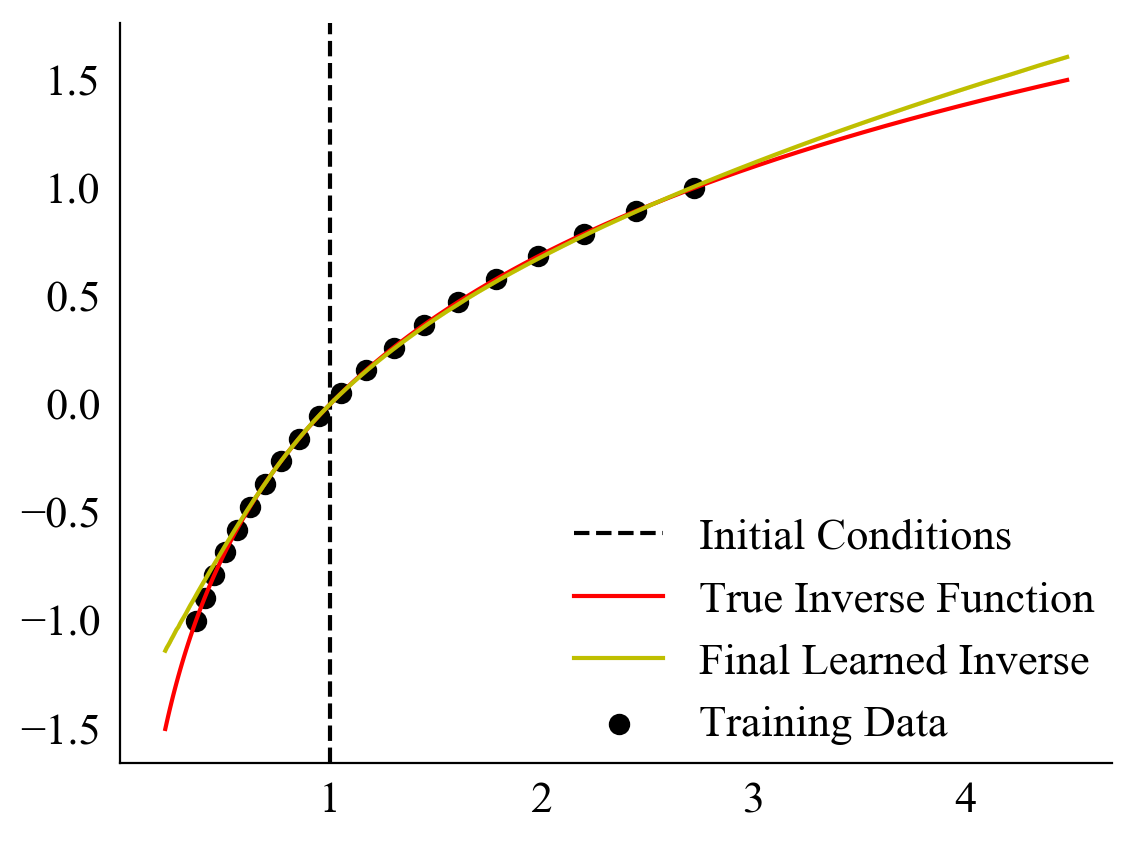
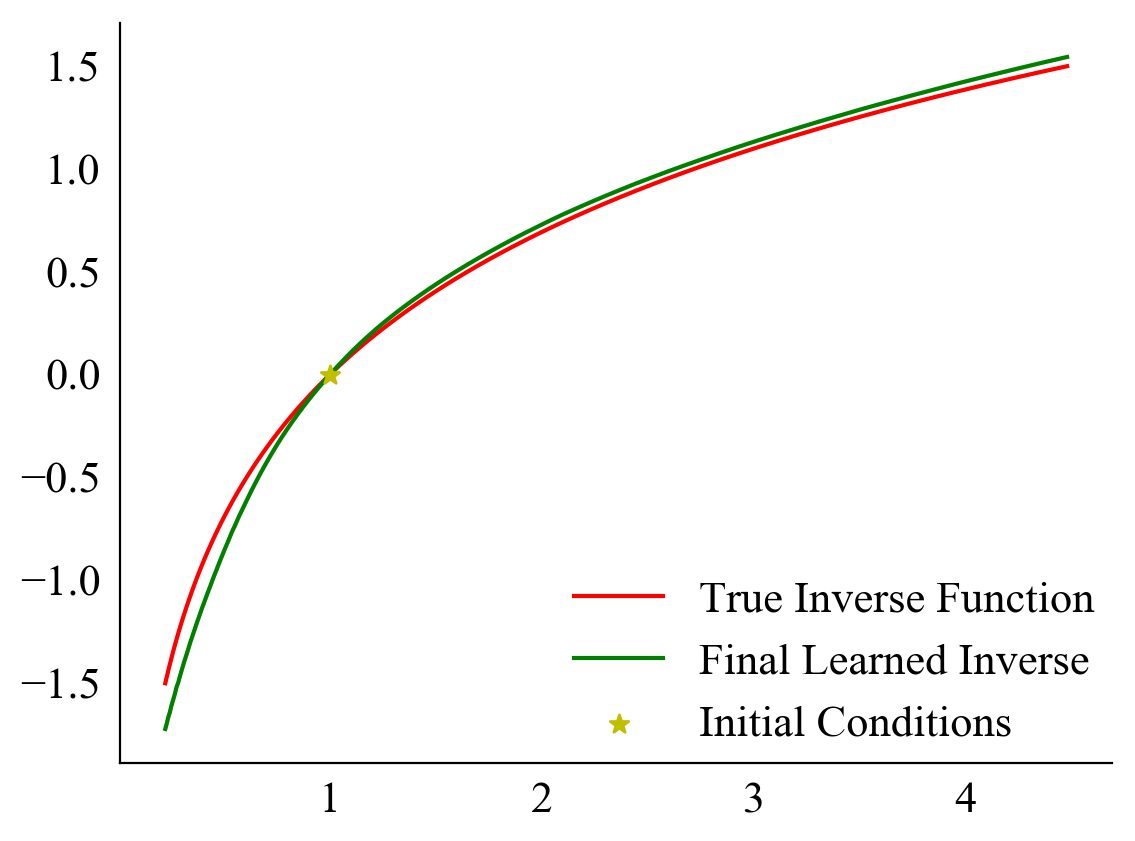
revised images from safwan comments

diff --git a/code/train.py b/code/train.py
@@ -222,7 +222,7 @@ def plot_loss(test_name):
     return rtols[-1], atols[-1]
 
 
-def plot_functions(test_name, num_epochs, rtol, atol, x_o):
+def plot_functions(test_name, num_epochs, rtol, atol, x_o, true_y):
     fig, ax = init_ax()
 
     initial_x, initial_y, initial_y_pred, initial_x_pred = load_log_plot('results/' + test_name + '_graph_-1.csv')
@@ -230,11 +230,6 @@ def plot_functions(test_name, num_epochs, rtol, atol, x_o):
         'results/' + test_name + '_graph_' + str(num_epochs) + '.csv')
 
     train_x, train_y, _, _ = load_log_plot('results/' + test_name + '_graph_0.csv')
-
-    ax.axvline(x_o, linestyle='--', color='k', label='Initial Conditions')
-
-    # Plot training data
-    ax.scatter(train_x, train_y, label='Training Data', c='k', s=mpl.rcParams['lines.markersize'] ** 2 * 1.25)
 
     # Plot the true function
     ax.plot(initial_x, initial_y, label='True Function', c='r')
@@ -251,6 +246,13 @@ def plot_functions(test_name, num_epochs, rtol, atol, x_o):
     ax.fill_between(final_x, final_y_pred + final_y_error, final_y_pred - final_y_error,
                     color='b', alpha=0.2)
 
+    ax.scatter(x_o, true_y(x_o), color='y', marker='*', label='Initial Conditions',
+               s=mpl.rcParams['lines.markersize']*8, zorder=10)
+
+    # Plot training data
+    ax.scatter(train_x, train_y, label='Training Data', c='k',
+               s=mpl.rcParams['lines.markersize']*2, zorder=10)
+
     ax = setup_ax(ax)
     fig.savefig('images/' + test_name + '_plot_functions.png', bbox_inches='tight', dpi=200)
     plt.close(fig)
@@ -265,11 +267,6 @@ def plot_inverse_functions(test_name, num_epochs, rtol, atol, x_o):
 
     train_x, train_y, _, _ = load_log_plot('results/' + test_name + '_graph_0.csv')
 
-    ax.axvline(true_y_exp(x_o), linestyle='--', color='k', label='Initial Conditions')
-
-    # Plot training data
-    ax.scatter(train_y, train_x, label='Training Data', c='k', s=mpl.rcParams['lines.markersize'] ** 2 * 1.25)
-
     # Plot the true function
     ax.plot(initial_y, initial_x, label='True Inverse Function', c='r')
 
@@ -279,10 +276,16 @@ def plot_inverse_functions(test_name, num_epochs, rtol, atol, x_o):
     final_y = np.array([y for y, _ in sorted_zipped_inverse])
     final_x_pred = np.array([x_pred for _, x_pred in sorted_zipped_inverse])
 
-    ax.plot(final_y, final_x_pred, label='Final Learned Inverse', c='y')
+    ax.plot(final_y, final_x_pred, label='Final Learned Inverse', c='g')
     final_x_error = np.abs(final_x_pred) * rtol + atol
     ax.fill_between(final_y, final_x_pred + final_x_error, final_x_pred - final_x_error,
                     color='y', alpha=0.2)
+
+    ax.scatter(true_y_exp(x_o), x_o, color='y', marker='*', label='Initial Conditions',
+               s=mpl.rcParams['lines.markersize']*8, zorder=10)
+
+    # Plot training data
+    # ax.scatter(train_y, train_x, label='Training Data', c='k', s=mpl.rcParams['lines.markersize'])
 
     ax = setup_ax(ax)
     fig.savefig('images/' + test_name + '_plot_inverse_functions.png', bbox_inches='tight', dpi=200)
@@ -309,7 +312,10 @@ def invertible_experiment_compute(num_epochs, rtol, atol, x_o):
     test_dataset = create_dataset(x_test, y_test, batch_size)
 
     # Create the network and train
-    network_choice = Dynamics(x_dim, y_dim, torch.nn.ELU())
+    epsilon = 0.0001
+    def square(x):
+        return x ** 2 + epsilon
+    network_choice = Dynamics(x_dim, y_dim, square)
     deriv_net = derivative_net(initial_c, true_y_exp, train_dataset, test_dataset, num_train, num_test,
                                batch_size, num_epochs, rtol, atol, save_name, network_choice,
                                optimizer=torch.optim.Adam, do_inverse=True)
@@ -349,15 +355,15 @@ def main(init_rtol, init_atol):
     # TODO: Should change to argparse
     print("Beginning Lipschitz experiments...")
     num_epochs_lipschitz = 100
-    lipschitz_experiment_compute(num_epochs_lipschitz, init_rtol, init_atol, x_o)
-    rtol_final_lipschitz, atol_final_lipschitz = plot_loss('lipschitz')
-    plot_functions('lipschitz', num_epochs_lipschitz, rtol_final_lipschitz, atol_final_lipschitz, x_o)
+    #lipschitz_experiment_compute(num_epochs_lipschitz, init_rtol, init_atol, x_o)
+    #rtol_final_lipschitz, atol_final_lipschitz = plot_loss('lipschitz')
+    #plot_functions('lipschitz', num_epochs_lipschitz, rtol_final_lipschitz, atol_final_lipschitz, x_o, true_y_abs)
 
     print("Beginning Invertibility experiments...")
     num_epochs_invertible = 100
     invertible_experiment_compute(num_epochs_invertible, init_rtol, init_atol, x_o)
     rtol_final_invertible, atol_final_invertible = plot_loss('invertible')
-    plot_functions('invertible', num_epochs_invertible, rtol_final_invertible, atol_final_invertible, x_o)
+    plot_functions('invertible', num_epochs_invertible, rtol_final_invertible, atol_final_invertible, x_o, true_y_exp)
     plot_inverse_functions('invertible', num_epochs_invertible, rtol_final_invertible, atol_final_invertible, x_o)
 
 

diff --git a/README.md b/README.md
@@ -2,7 +2,13 @@
 
 ## TODO
 
-* 
+* Write the README
+* Setup instructions
+* How to run experiments
+* How to view raw data
+* How to view plots
+* Add a copy of the paper?
+* More interesting examples to learn?
 
 
 ## Getting Started
